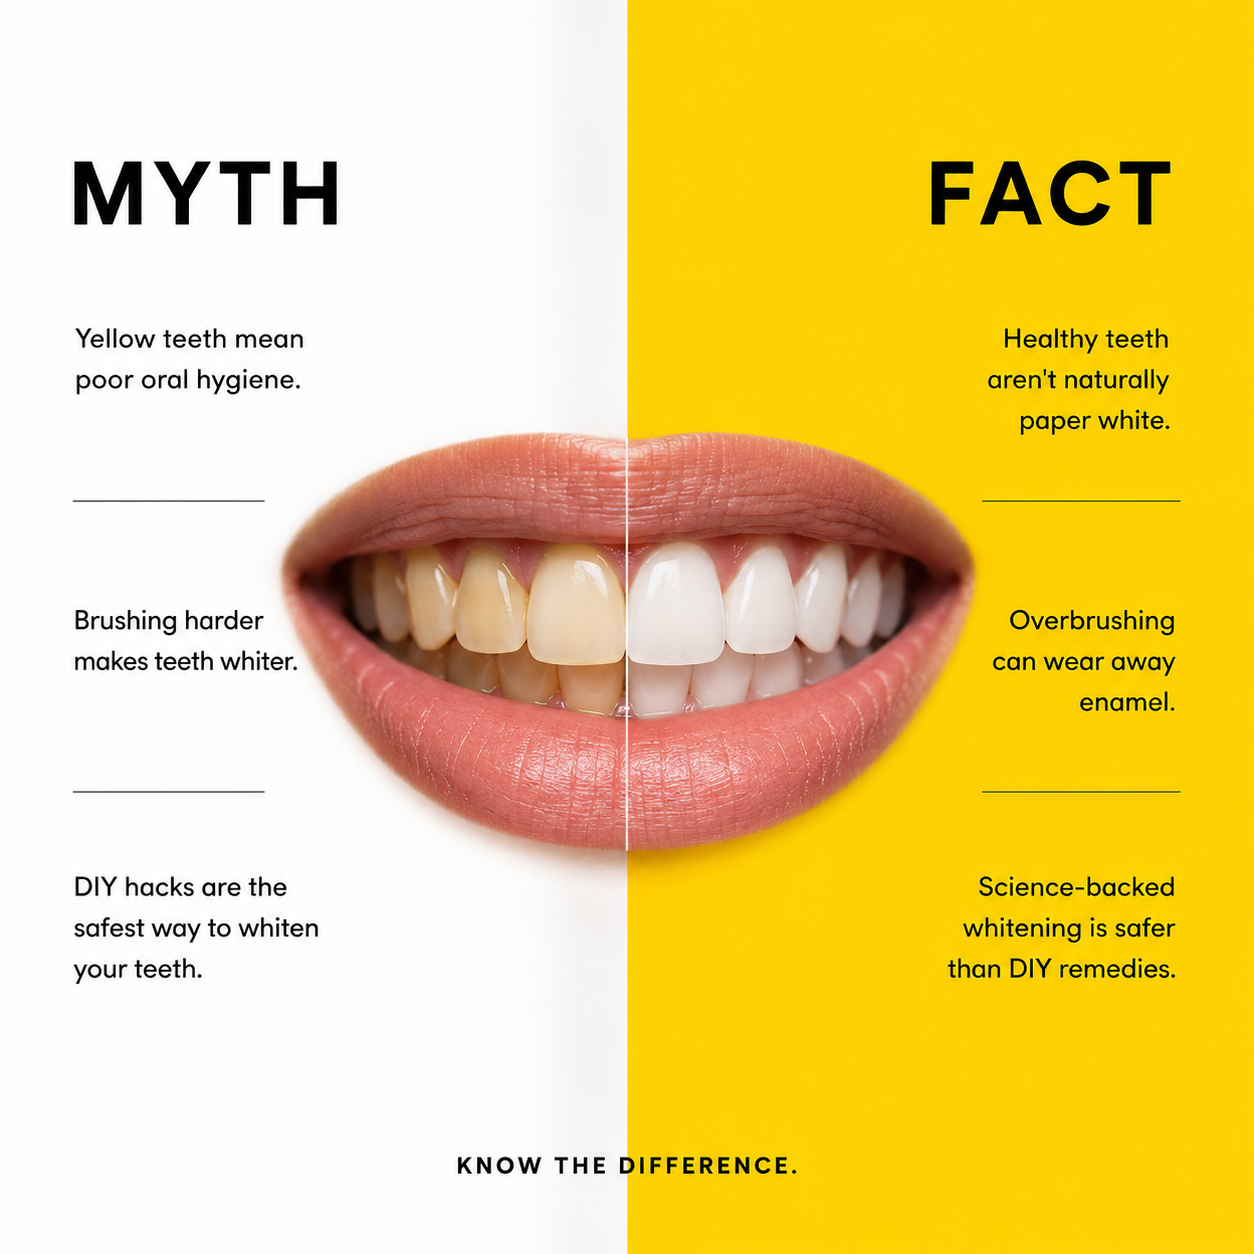
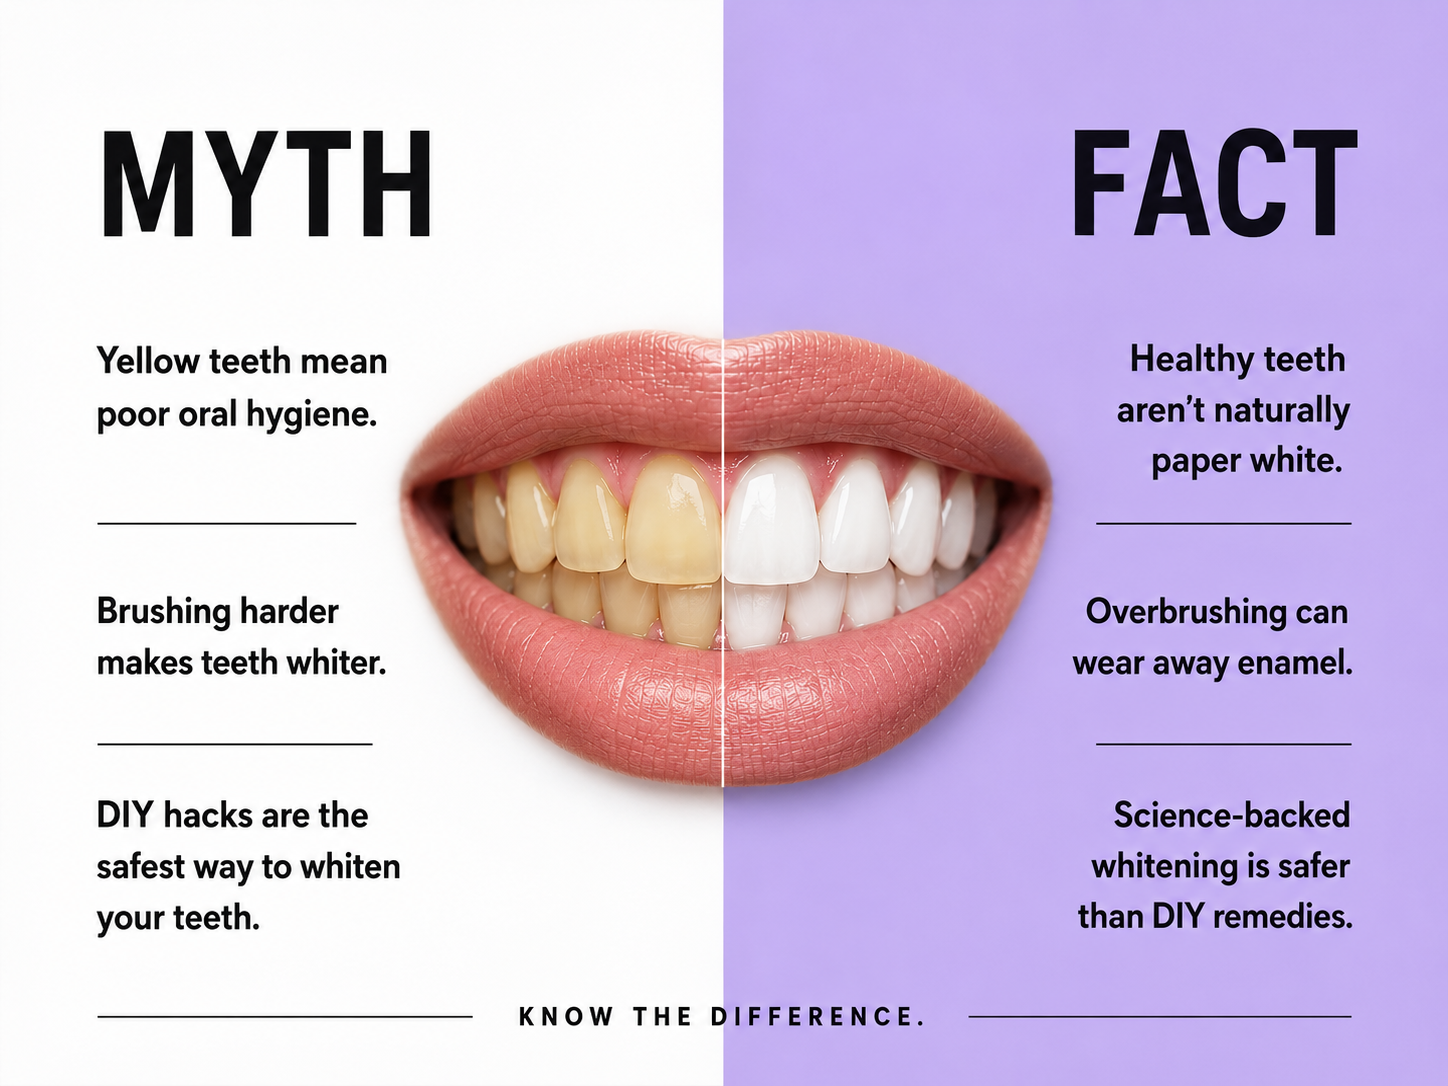
Simplify copy to plain language and remove habits/routine section
Replaced jargon (neutralize, complementary colours, corrective colour
technology, etc.) with plain wording across the hero, myth vs fact,
how-it-works, and FAQ sections — same meaning, readable by anyone.
Real customer reviews and factual safety/ingredient claims are untouched.

Also removed the "low to high confidence" habits/routine section to
shorten the page; the component file is kept on disk in case it's needed
again, just unmounted from the page.

diff --git a/components/sections/HowItWorks.tsx b/components/sections/HowItWorks.tsx
@@ -17,10 +17,10 @@ export default function HowItWorks() {
             desktop instead of one small image floating in a wide column */}
         <div className="mx-auto flex max-w-md flex-col items-center gap-8 md:max-w-none md:flex-row md:items-center md:gap-14">
           <p className="text-center text-base leading-relaxed text-ink sm:text-lg md:flex-1 md:text-left">
-            Yellow and purple sit on opposite ends of the color wheel. Applied
-            together, purple pigment optically{" "}
-            <span className="font-medium text-ink">cancels out yellow</span> —
-            the same principle colour-correcting makeup uses on skin tone.
+            Yellow and purple are opposite colors. Put purple on yellow, and
+            the yellow{" "}
+            <span className="font-medium text-ink">disappears</span>. That&rsquo;s
+            exactly what happens on your teeth.
           </p>
           <figure className="w-full md:flex-1">
             <Image
@@ -36,8 +36,7 @@ export default function HowItWorks() {
         {/* The proof — before / during / after */}
         <div className="mx-auto mt-8 max-w-3xl sm:mt-10">
           <p className="text-center text-base leading-relaxed text-ink sm:text-lg">
-            Here&rsquo;s what that looks like on real teeth — from the first
-            application to the reveal.
+            Here&rsquo;s what that looks like on real teeth.
           </p>
 
           <figure className="mt-6 overflow-hidden rounded-4xl shadow-card ring-1 ring-purple-100">
@@ -54,26 +53,26 @@ export default function HowItWorks() {
           <div className="mt-6 grid grid-cols-3 gap-3 text-center sm:gap-6">
             <div>
               <p className="text-sm font-semibold text-ink sm:text-base">
-                1. Yellow tones
+                1. Teeth look yellow
               </p>
               <p className="mt-1 text-xs text-ink sm:text-sm">
-                Natural surface staining
+                That&rsquo;s normal staining
               </p>
             </div>
             <div>
               <p className="text-sm font-semibold text-purple-600 sm:text-base">
-                2. Purple applied
+                2. Purple goes on
               </p>
               <p className="mt-1 text-xs text-ink sm:text-sm">
-                Pigment neutralizes yellow
+                It cancels the yellow
               </p>
             </div>
             <div>
               <p className="text-sm font-semibold text-ink sm:text-base">
-                3. Instantly brighter
+                3. Teeth look brighter
               </p>
               <p className="mt-1 text-xs text-ink sm:text-sm">
-                Visible in 60 seconds
+                You&rsquo;ll see it fast
               </p>
             </div>
           </div>
@@ -81,9 +80,8 @@ export default function HowItWorks() {
 
         {/* Realistic expectations, stated plainly */}
         <p className="mx-auto mt-6 max-w-md text-center text-sm leading-relaxed text-ink">
-          *The purple serum delivers a temporary cosmetic effect — it
-          neutralizes and conceals yellow stains, visible from the very first
-          use.
+          *This is a quick fix, not permanent whitening. Purple hides the
+          yellow — it doesn&rsquo;t remove stains for good.
         </p>
       </Container>
     </section>

diff --git a/components/sections/Hero.tsx b/components/sections/Hero.tsx
@@ -24,15 +24,15 @@ export default function Hero() {
             <span className="italic text-yellow-500">yellow</span>
             {" — and how "}
             <span className="italic text-purple-600">purple</span>
-            {" instantly neutralizes it"}
+            {" cancels it out instantly"}
           </h1>
 
           {/* Mobile: 2–3 short lines. Desktop: narrowed to set in 3 lines. */}
           <p className="mt-6 max-w-md text-base leading-relaxed text-ink sm:text-lg md:max-w-xl">
             Most whitening products take weeks to show a difference. Purple
-            color correction works on a different principle — neutralizing
-            yellow tones for an{" "}
-            <span className="font-medium text-ink">instant cosmetic improvement</span>.
+            works differently — it cancels out yellow right away, so your
+            teeth look{" "}
+            <span className="font-medium text-ink">better instantly</span>.
           </p>
 
           <div className="mt-8">

diff --git a/components/sections/Faq.tsx b/components/sections/Faq.tsx
@@ -5,11 +5,11 @@ import { Container } from "@/components/ui";
 const FAQS = [
   {
     q: "How does the purple serum whiten teeth?",
-    a: "It uses corrective colour technology — purple and yellow are complementary colours, so applying purple on your teeth counteracts and cancels the yellow stains on the surface, making teeth appear whiter instantly.",
+    a: "Purple and yellow cancel each other out. Put purple on your teeth, and it cancels the yellow — so they look white right away.",
   },
   {
     q: "How long does it take to show results?",
-    a: "The colour-correction effect is visible from first use. With consistent use over 2–8 weeks, you can see up to 4 shades whiter teeth — results vary by person.",
+    a: "You'll see it work the first time you use it. Keep using it for 2–8 weeks and your teeth can look up to 4 shades whiter. It's different for everyone.",
   },
   {
     q: "Are there any side effects?",

diff --git a/app/page.tsx b/app/page.tsx
@@ -3,7 +3,6 @@ import MythVsFact from "@/components/sections/MythVsFact";
 import ProductBanner from "@/components/sections/ProductBanner";
 import TrustBar from "@/components/sections/TrustBar";
 import HowItWorks from "@/components/sections/HowItWorks";
-import HabitsRoutine from "@/components/sections/HabitsRoutine";
 import RealResults from "@/components/sections/RealResults";
 import Faq from "@/components/sections/Faq";
 import StickyAddToCart from "@/components/sections/StickyAddToCart";
@@ -16,7 +15,6 @@ export default function Home() {
       <ProductBanner />
       <TrustBar />
       <HowItWorks />
-      <HabitsRoutine />
       <RealResults />
       <Faq />
       <StickyAddToCart />

diff --git a/components/sections/MythVsFact.tsx b/components/sections/MythVsFact.tsx
@@ -28,7 +28,7 @@ export default function MythVsFact() {
         <p className="mx-auto mt-6 max-w-xs text-center text-base leading-relaxed text-ink sm:max-w-sm">
           The takeaway?{" "}
           <span className="font-medium text-ink">
-            Purple neutralizes yellow instantly
+            Purple cancels yellow instantly
           </span>{" "}
           — no bleaching needed.
         </p>